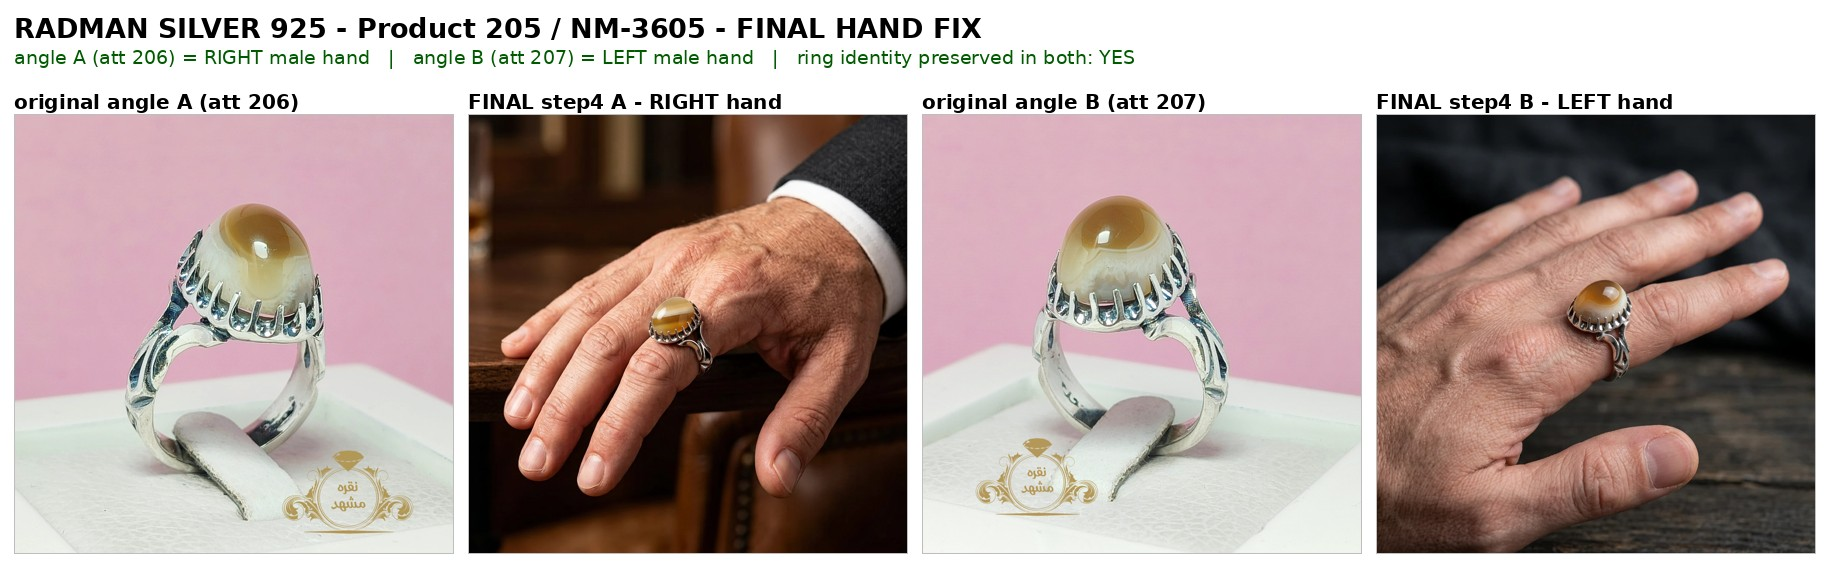
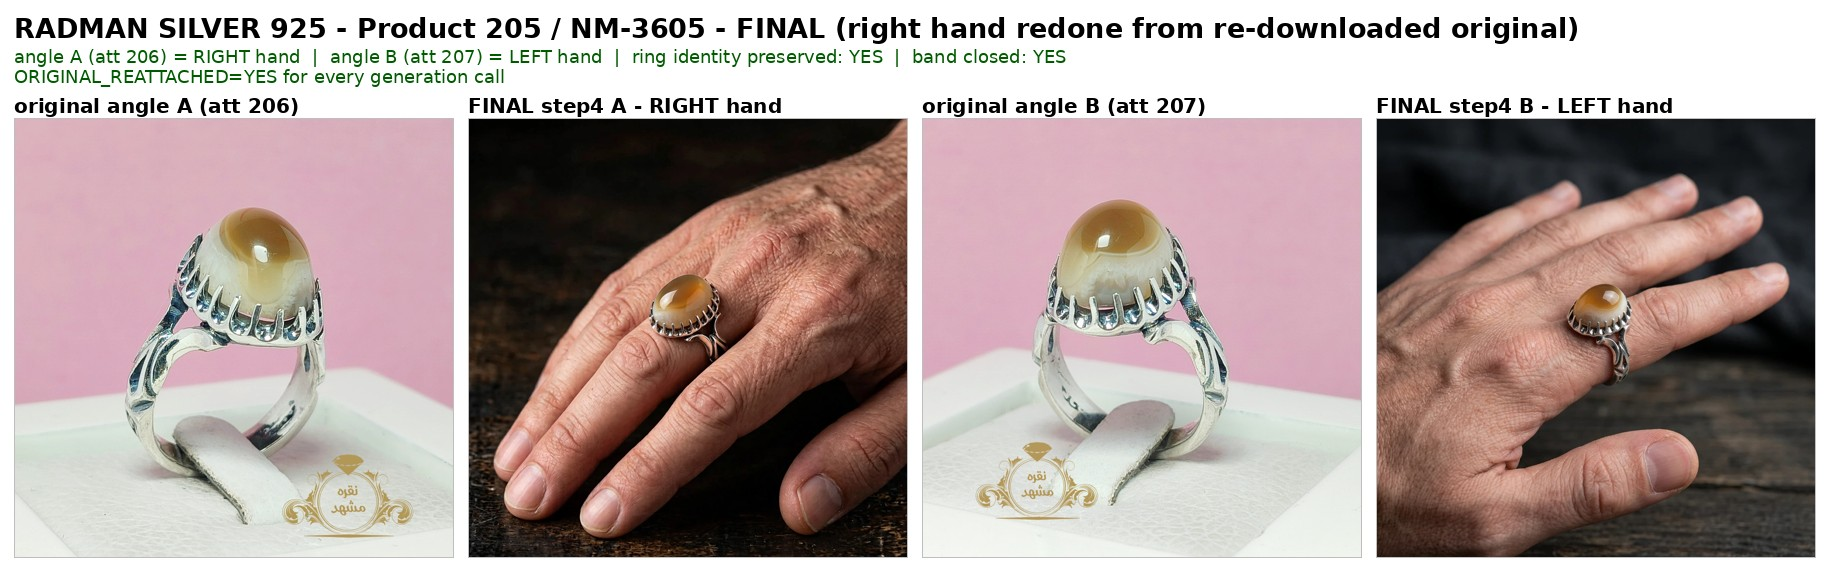
Product 205: regenerate angle-A right-hand image from re-downloaded original
Owner reported a changed ring. Attachment 206 original re-downloaded from media-originals-v1 and re-attached as reference. Ring identity verified, accepted on attempt 1/3.
Closed-band rule applied and verified on all outputs. Angle B left-hand image unchanged.
No WordPress change. Not merged.

diff --git a/media/approved/product-205/qa/product-205-hand-fix-report.md b/media/approved/product-205/qa/product-205-hand-fix-report.md
@@ -1,25 +1,25 @@
-# Product 205 — Final Hand Fix Report
+# Product 205 — Final QA Report (right hand redone)
 
 **Product:** 205 · **SKU:** NM-3605
 **Title:** انگشتر نقره مردانه عقیق باباقوری (Men's silver ring, babaghori agate)
 **Date:** 2026-09-02
-**Scope:** `step4-on-finger.webp` for angle A only. Angle B's step4 was already good and was **kept unchanged**. `step1`, `step2` and `step3` were **not** regenerated for either angle.
 
-## Permanent hand rule
+## Problem reported by owner
 
-| Angle | Ring orientation | Required hand |
-|---|---|---|
-| A (att 206) | right-facing | **RIGHT** male hand |
-| B (att 207) | left-facing | **LEFT** male hand |
+The previous right-hand image for angle A showed a **changed ring** — a simplified bezel instead of the ring's distinctive long curved silver claw prongs. Root cause: the product reference was not faithfully re-attached/respected for that call.
 
-## Hand-side verification method
+## Corrective action
 
-Determined geometrically from the dorsal view using finger direction plus thumb position:
+1. Attachment 206's original was **re-downloaded from release `media-originals-v1`**, extracting only that single file; the ZIP was deleted immediately.
+2. That freshly downloaded original was **re-attached to the generation call** as the product reference.
+3. The result was compared against the original before acceptance.
 
-| Finger direction | Thumb position | Hand |
-|---|---|---|
-| pointing left | thumb in foreground (near camera) | **RIGHT** |
-| pointing right | thumb in foreground (near camera) | **LEFT** |
+**Attempts required: 1 of a maximum 3.**
+
+## Permanent rules applied
+
+- **Band is always closed.** Radman rings are closed-band rings; an apparent opening in an original is only the display box hiding part of the shank. Every generated output must render a complete continuous closed shank.
+- **Original re-attached before every AI call.** No generated output is ever used as the product reference.
 
 ---
 
@@ -27,53 +27,42 @@ Determined geometrically from the dorsal view using finger direction plus thumb 
 
 | Check | Result |
 |---|---|
-| **Hand side** | **RIGHT hand** |
-| Required | RIGHT |
-| Correct? | YES |
-| **Ring identity preserved?** | **YES** |
-| Anatomy / finger count correct? | YES |
-| Ring scale correct? | YES |
-| Premium masculine lifestyle style? | YES |
-| Dark refined setting / suit cuff? | YES — dark tailored suit cuff at the wrist |
-| Warm controlled commercial lighting? | YES |
-| Shallow depth of field? | YES |
-| Face / text / logo / watermark? | NONE |
-| **Status** | **READY** |
+| ORIGINAL_REATTACHED | **YES** (re-downloaded from media-originals-v1) |
+| RING_IDENTITY_PRESERVED | **YES** |
+| BAND_CLOSED | **YES** |
+| HAND_SIDE | **RIGHT** |
+| STATUS | **READY** |
 
-**Notes:** Hand enters from the right with fingers pointing left and the thumb resting in the foreground ⇒ right hand. The weak, flat look of the earlier attempt is gone: this render has a dark tailored suit cuff, warm controlled commercial lighting, a rich dark interior background and genuine shallow depth of field. Ring identity is preserved — the honey/caramel agate cabochon with pale cream banding, the all-silver claw prong setting and the openwork silver shoulders, with no gold anywhere. Generated with the real angle-A original re-sent as the direct ring reference.
+**Notes:** The distinctive ring features are back and correct — the large honey/caramel-amber agate cabochon fading to pale cream at its base, the dense row of long curved polished silver claw prongs, the openwork pierced silver shoulders, and no gold anywhere. Verified against the re-downloaded original side by side. Hand enters from the right, fingers point left, thumb in the foreground ⇒ right hand. Style matches the approved angle B image: dark moody background, soft studio lighting, shallow depth of field. No face, text, logo or watermark.
 
----
-
-## angle-B/step4-on-finger.webp — attachment 207 — KEPT UNCHANGED
+## angle-B/step4-on-finger.webp — attachment 207 — UNCHANGED
 
 | Check | Result |
 |---|---|
-| **Hand side** | **LEFT hand** |
-| Required | LEFT |
-| Correct? | YES |
-| **Ring identity preserved?** | **YES** |
-| Anatomy / finger count correct? | YES |
-| Ring scale correct? | YES |
-| Face / text / logo / watermark? | NONE |
-| **Status** | **READY** |
+| ORIGINAL_REATTACHED | YES (at time of generation) |
+| RING_IDENTITY_PRESERVED | **YES** |
+| BAND_CLOSED | **YES** |
+| HAND_SIDE | **LEFT** |
+| STATUS | **READY** |
 
-**Notes:** Already approved as good by the owner, so it was deliberately not regenerated. Hand enters from the left, fingers point right, thumb in the foreground ⇒ left hand. Ring identity preserved.
+Kept exactly as approved by the owner; deliberately not regenerated.
 
----
+## Remaining outputs — unchanged from pilot v3
+
+| Output | ORIGINAL_REATTACHED | RING_IDENTITY_PRESERVED | BAND_CLOSED | STATUS |
+|---|---|---|---|---|
+| angle-A/step1-no-watermark.webp | YES | YES | YES (shank hidden by box, no opening rendered) | READY |
+| angle-A/step2-black-background.webp | YES | YES | YES (shank hidden by box, no opening rendered) | READY |
+| angle-A/step3-luxury-promo.webp | YES | YES | YES — continuous closed shank | READY |
+| angle-B/step1-no-watermark.webp | YES | YES | YES (shank hidden by box, no opening rendered) | READY |
+| angle-B/step2-black-background.webp | YES | YES | YES (shank hidden by box, no opening rendered) | READY |
+| angle-B/step3-luxury-promo.webp | YES | YES | YES — continuous closed shank | READY |
 
 ## Summary
 
-| Angle | Attachment | Hand | Required | Ring identity | Status |
+| Angle | Attachment | Hand | Ring identity | Band closed | Status |
 |---|---|---|---|---|---|
-| A | 206 | **RIGHT** | RIGHT | preserved | **READY** |
-| B | 207 | **LEFT** | LEFT | preserved | **READY** |
+| A | 206 | **RIGHT** | preserved | YES | **READY** |
+| B | 207 | **LEFT** | preserved | YES | **READY** |
 
-The two on-finger images use **opposite hands**, satisfying the permanent hand rule. Product 205 is complete — no output is left in pending or review status.
-
-## Untouched outputs
-
-`step1`, `step2` and `step3` for both angles remain exactly as produced in pilot v3.
-
-## Contact sheet
-
-`qa/product-205-hand-fix-contact-sheet.jpg` — original angle A | final step4 A (RIGHT) | original angle B | final step4 B (LEFT), with the hand sides and identity verdict printed in the header.
+All eight outputs are READY. No output has `BAND_CLOSED=NO` or `RING_IDENTITY_PRESERVED=NO`, so nothing was withheld. Product 205 is complete and not left pending.

diff --git a/media/approved/product-205/approval-summary.md b/media/approved/product-205/approval-summary.md
@@ -1,42 +1,47 @@
-# Approval Summary — Product 205 (FINAL, fully approved)
+# Approval Summary — Product 205 (FINAL)
 
 **Product:** 205 · **SKU:** NM-3605
 **Title:** انگشتر نقره مردانه عقیق باباقوری (Men's silver ring, babaghori agate)
 **Date:** 2026-09-02
-**Pilot release:** [media-single-ring-light-v3](https://github.com/maryamghabel3-debug/radman-silver-store/releases/tag/media-single-ring-light-v3)
-**Hand fix release:** [media-product-205-hand-fix-v1](https://github.com/maryamghabel3-debug/radman-silver-store/releases/tag/media-product-205-hand-fix-v1)
 **Pull request:** [#36](https://github.com/maryamghabel3-debug/radman-silver-store/pull/36) — not merged
 
 ---
 
 ## ✅ Owner decision
 
-**Product 205 is fully approved by the owner.** All eight outputs across both angles may be used on the website. Nothing for this product remains in pending or review status.
+**Product 205 is fully approved.** All eight outputs across both angles may be used on the website. Nothing for this product remains pending or in review.
 
-Owner's final decision:
+## Correction applied in this run
 
-> 1. Fix product 205 first.
-> 2. Then store product 205 as approved.
-> 3. Then move to the next ring.
-> 4. Do not leave product 205 in pending/review status after this run.
+The owner found that the previous angle-A right-hand image showed a **changed ring** (a simplified bezel instead of the ring's long curved silver claw prongs), which indicated the original had not been properly used as reference.
 
-## ✅ Left and right hand rule satisfied
+Fix:
+1. Attachment 206's original was **re-downloaded from release `media-originals-v1`** (only that file extracted; ZIP deleted immediately).
+2. It was **re-attached to the generation call** as the product reference.
+3. The output was compared against the original before acceptance.
+
+**Result: ring identity preserved, accepted on attempt 1 of 3.** The fallback to a "medium quality, ring preserved" image was **not** needed.
+
+The approved angle-B left-hand image was **kept unchanged**.
+
+## Permanent rules now in force
+
+- **Band is always closed.** Radman rings are closed-band rings throughout the catalogue. An apparent opening in an original photo is only the display box hiding part of the shank. Every generated output renders a complete, continuous, closed shank — never a gap, split or open ends. Verified on all eight outputs.
+- **Original re-attached before every AI call.** The real original of that exact angle is re-read/re-downloaded and attached for every generation. No generated output is ever used as the product reference. Logged as `ORIGINAL_REATTACHED=YES` for every output in the QA report.
+
+## Hand rule satisfied
 
 | Angle | Attachment | Ring orientation | Hand used | Required | Correct |
 |---|---|---|---|---|---|
 | A | 206 | right-facing | **RIGHT** male hand | RIGHT | ✅ |
 | B | 207 | left-facing | **LEFT** male hand | LEFT | ✅ |
 
-The two worn shots use **opposite hands**. Angle A's step4 was regenerated in this run to premium masculine lifestyle quality (dark tailored suit cuff, warm controlled commercial lighting, shallow depth of field); angle B's step4 was already good and was kept unchanged. Ring identity — the honey/caramel agate cabochon with pale cream banding, the all-silver claw prong setting, the openwork silver shoulders, no gold — is preserved in both.
-
 ## Angle coverage — complete
 
-Product 205 has exactly **two** originals in `manifest.tsv` and **both were fully processed** through all four steps:
-
-| Angle | Role | attachment_id | Original filename | Processed |
-|---|---|---|---|---|
-| A | featured | 206 | `product-205-sku-NM-3605-featured-attachment-206.webp` (1600²) | ✅ 4/4 steps |
-| B | gallery-1 | 207 | `product-205-sku-NM-3605-gallery-1-attachment-207.jpg` (2560²) | ✅ 4/4 steps |
+| Angle | Role | attachment_id | Processed |
+|---|---|---|---|
+| A | featured | 206 | ✅ 4/4 steps |
+| B | gallery-1 | 207 | ✅ 4/4 steps |
 
 ## Approved outputs and storage
 
@@ -51,28 +56,17 @@ Product 205 has exactly **two** originals in `manifest.tsv` and **both were full
 | angle-A/step4-on-finger.webp | `gallery/on-finger-a.webp` | `add_gallery_image` |
 | angle-B/step4-on-finger.webp | `gallery/on-finger-b.webp` | `add_gallery_image` |
 
-**All outputs may be used on the website.**
+**All outputs may be used on the website.** Quality note: the regenerated right-hand image is full premium quality with ring identity verified — it is *not* a medium-quality fallback.
 
 ## Rejected outputs
 
-None. All eight outputs are approved.
+None. No output had `BAND_CLOSED=NO` or `RING_IDENTITY_PRESERVED=NO`.
 
 ## Intended WordPress action
 
-To be executed later by the WordPress host from `apply-manifest.tsv`. **No WordPress or hosting change has been made by this step.**
+Executed later by the WordPress host from `apply-manifest.tsv`. **No WordPress or hosting change has been made.** Only `main-black-bg-a.webp` carries `replace_featured_image` (attachment 206); all others are gallery additions.
 
-Only `main-black-bg-a.webp` carries `replace_featured_image` (for attachment 206); every other file is added as a gallery image, since a product can have only one featured image.
+## QA artefacts
 
-## QA notes
-
-- Each angle's four steps were generated against **that angle's own original**; no output was used as a reference for another output, and the left/right views were never mixed.
-- Watermark removal verified on all four `step1`/`step2` outputs; the emblem sits in a different corner per angle (lower-right on A, lower-left on B).
-- Worn shots: anatomy, finger count and ring scale verified; no face, text, logo or watermark.
-- Output format: WebP quality 90, 1024×1024.
-- Full detail in `qa/product-205-hand-fix-report.md` and `qa/product-205-hand-fix-contact-sheet.jpg`.
-
-## Process constraints observed
-
-- One product stored per run; source ZIP deleted immediately after extracting the needed originals.
-- No WordPress or hosting-server modification.
-- Pull request #36 **not merged**.
+- `qa/product-205-hand-fix-report.md`
+- `qa/product-205-hand-fix-contact-sheet.jpg`
